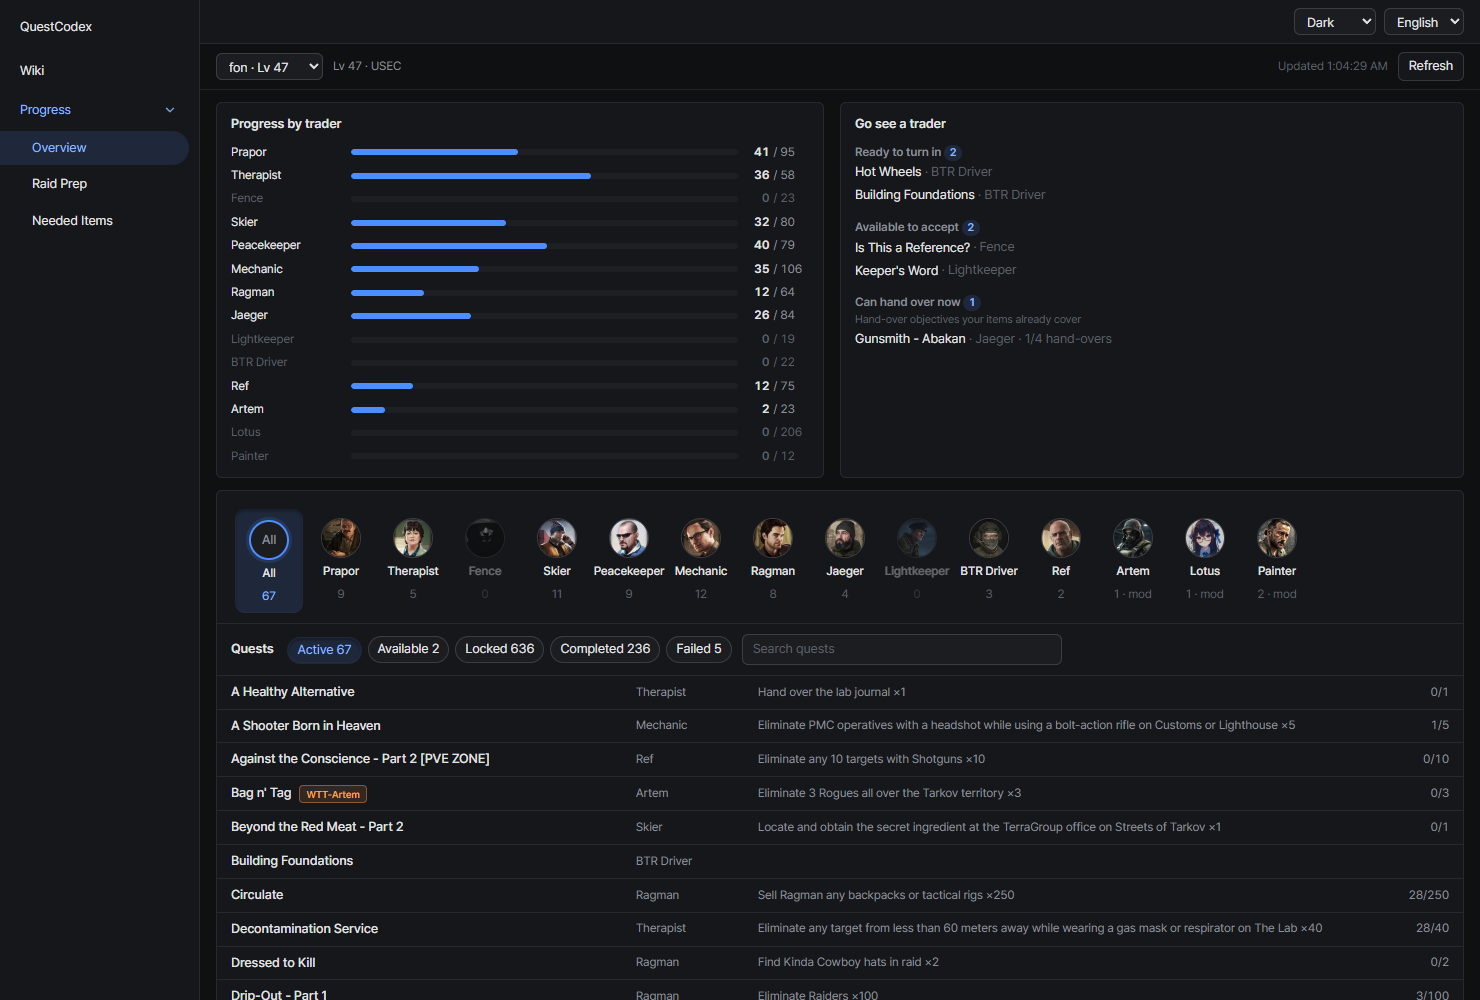
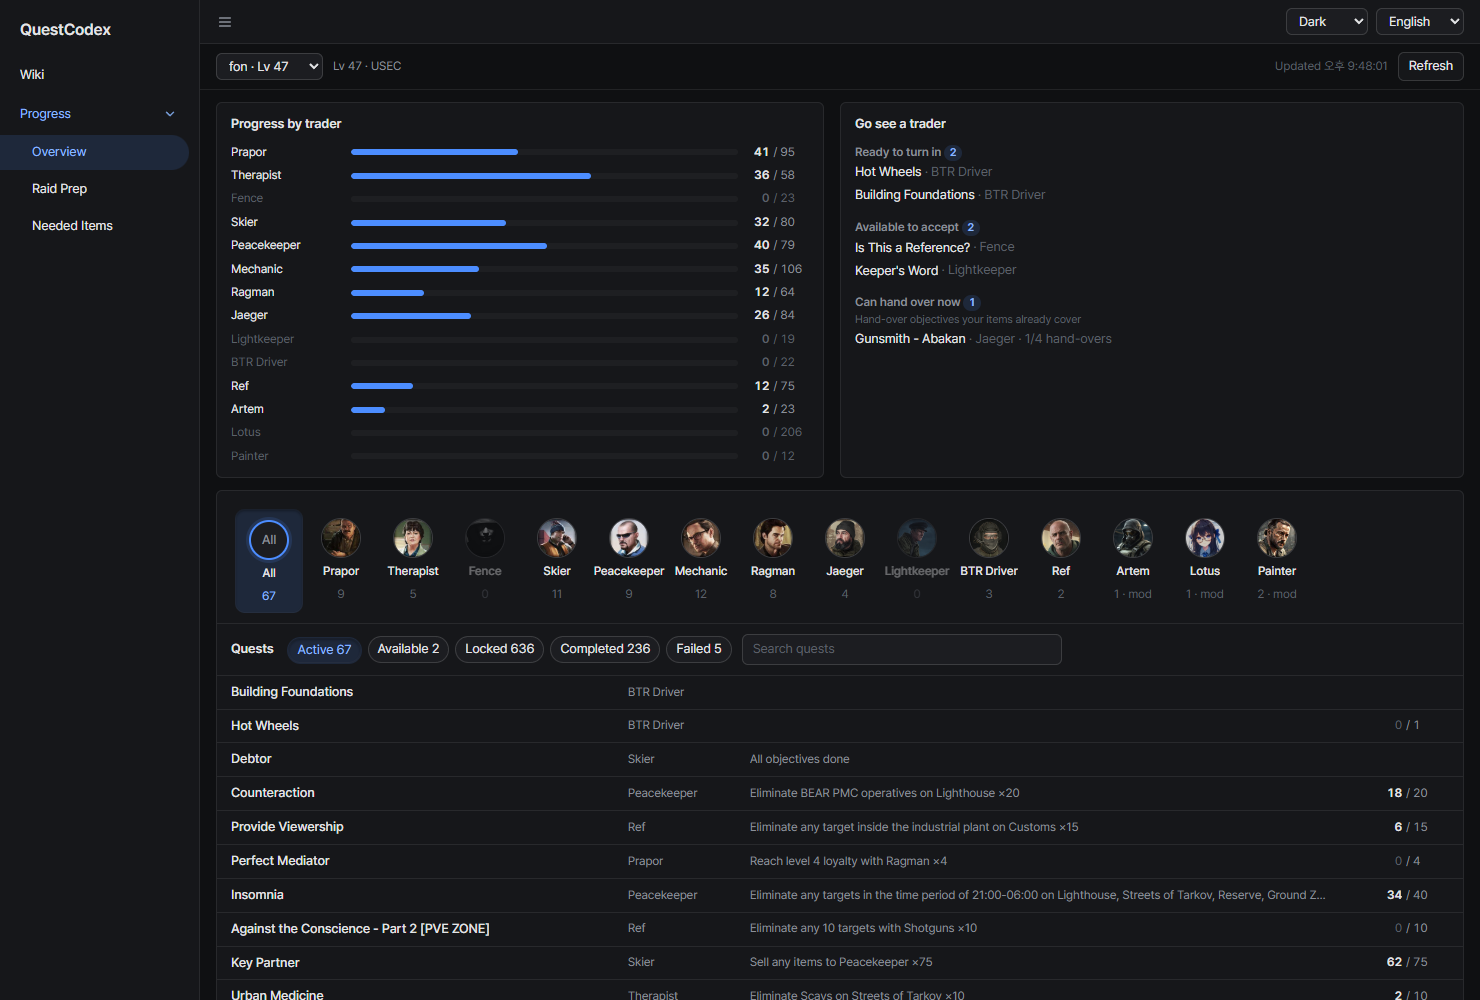
Document the 1.3.0 map and progress changes on the docs site
- Add the quest locations map to the wiki details page, including how lock icons hint at keys
- Add the raid prep map card and expanded map window sections
- Describe full quest details, unmet start conditions and per-tab sorting in the overview
- List Russian in the language switch and add the collapsible side menu
- Note quest map coverage limits under known limitations
- Mirror every change in the Korean pages
- Add new map screenshots and retake the outdated progress screenshots

diff --git a/docs/_kr/progress/raid-prep.md b/docs/_kr/progress/raid-prep.md
@@ -29,6 +29,24 @@ nav_order: 2
 
 [![선택한 맵의 퀘스트]({{ '/assets/images/progress-raid-quests.png' | relative_url }})]({{ '/assets/images/progress-raid-quests.png' | relative_url }})
 
+지도에 표시되는 퀘스트가 먼저, 그다음 진행도가 있는 퀘스트를 진행률 순으로, 나머지는 이름순으로 정렬됩니다.
+
+## 지도
+
+퀘스트 목록 아래에 지도 카드가 있습니다. 고른 맵 탭을 따라 바뀌고, 스크롤해도 화면에 계속 보입니다.
+위키의 [퀘스트 위치 지도]({{ '/kr/wiki/quest-details.html' | relative_url }})와 같은 지도에
+이 맵의 퀘스트를 한꺼번에 표시합니다.
+
+- 퀘스트 행에 마커와 같은 색의 번호가 붙습니다. 한쪽에 마우스를 올리면 다른 쪽도 강조됩니다
+- 층 버튼, 목표 영역, **잠긴 문**(Locked doors) 토글은 위키와 같습니다. 마커 근처의 자물쇠 아이콘으로 챙겨 갈 열쇠를 짐작할 수 있습니다
+
+[![지도 카드]({{ '/assets/images/progress-raid-map-card.png' | relative_url }})]({{ '/assets/images/progress-raid-map-card.png' | relative_url }})
+
+**크게 보기**(Expand)를 누르면 지도가 옮기고 크기를 바꿀 수 있는 창으로 열리고, 번호가 붙은 퀘스트 목록도 함께
+보입니다. 창 뒤의 페이지도 그대로 스크롤하고 누를 수 있습니다. 닫기 버튼이나 `Esc`로 닫습니다.
+
+[![크게 보기 창]({{ '/assets/images/progress-raid-map-window.png' | relative_url }})]({{ '/assets/images/progress-raid-map-window.png' | relative_url }})
+
 ## 챙겨 갈 아이템 / 파밍할 아이템
 
 - **챙겨 갈 아이템**(Bring with you): 이 맵에 설치할 아이템과 필요 수량·보유 수량

diff --git a/docs/_kr/wiki/quest-details.md b/docs/_kr/wiki/quest-details.md
@@ -29,6 +29,21 @@ nav_order: 2
 
 [![설명 팝업]({{ '/assets/images/wiki-description.png' | relative_url }})]({{ '/assets/images/wiki-description.png' | relative_url }})
 
+## 퀘스트 위치 지도
+
+가이드 버튼 옆의 **위치정보**(Locations) 버튼을 누르면 퀘스트 목표가 어디에 있는지 지도로 보여 줍니다.
+위치 정보가 있는 목표가 하나도 없으면 버튼이 흐리게 비활성화됩니다.
+
+- 목표마다 번호 마커가 찍히고, 구역 처치·신호탄 같은 목표는 영역으로 그려집니다. 목표마다 색이 다릅니다
+- 맵 탭으로 맵을, 층 버튼으로 층을 바꿉니다. 층 버튼의 빨간 점은 그 층에도 목표가 있다는 뜻입니다
+- 휠로 확대, 드래그로 이동, 더블클릭으로 전체 보기
+- **잠긴 문**(Locked doors)을 켜면 잠긴 문과 키카드 문에 자물쇠 아이콘이 표시되고, 마우스를 올리면 필요한 열쇠 이름이 나옵니다
+
+어떤 퀘스트에 열쇠가 필요한지는 QuestCodex가 직접 알려 주지 않습니다. 대신 지도에서 마커 주변에 자물쇠
+아이콘이 있다면, 마우스를 올려 어떤 열쇠로 여는 문인지 확인하고 그 열쇠를 챙겨 갈지 어느 정도 짐작할 수 있습니다.
+
+[![퀘스트 위치 지도]({{ '/assets/images/wiki-quest-map.png' | relative_url }})]({{ '/assets/images/wiki-quest-map.png' | relative_url }})
+
 ## 택일 분기 경고
 
 어떤 퀘스트는 서로 배타적인 분기에 있어서, 하나를 완료하면 다른 퀘스트가 실패하거나 막힙니다.

diff --git a/docs/_kr/progress/overview.md b/docs/_kr/progress/overview.md
@@ -30,8 +30,19 @@ nav_order: 1
 
 ## 상태별 퀘스트
 
-모든 퀘스트를 상태별로 묶어 보여 주며, 검색과 위키와 같은 상인 줄로 거를 수 있습니다. 퀘스트를 누르면 목표가
-펼쳐지고 어떤 목표를 끝냈는지 보입니다. 모드 퀘스트에는 모드 이름 태그가 붙습니다.
+모든 퀘스트를 상태별로 묶어 보여 주며, 검색과 위키와 같은 상인 줄로 거를 수 있습니다. 모드 퀘스트에는 모드 이름 태그가 붙습니다.
+
+퀘스트를 누르면 위키와 같은 상세(설명, 가이드, 위치 지도, 분기 경고, 보상, 연계 퀘스트)가 펼쳐지고, 내 진행 상황이 함께 보입니다.
+
+- 목표마다 진행 수치가 붙고, 끝낸 목표는 취소선으로 표시됩니다
+- 잠긴 퀘스트는 아직 못 채운 시작 조건을 현재 값과 함께 표시합니다
+- **위키에서 보기**(Open in wiki)로 위키의 해당 퀘스트로 이동하고, 연계 퀘스트 링크는 이 목록 안에서 이동합니다
+
+탭마다 먼저 볼 만한 퀘스트가 위로 오게 정렬됩니다.
+
+- **진행 중**: 완료 보고할 수 있는 퀘스트가 먼저, 그다음 목표 진행률 순
+- **잠김**: 해금에 가까운 퀘스트가 먼저
+- **완료 / 실패**: 최근에 끝난 퀘스트가 먼저
 
 이 프로필로는 끝낼 수 없는 퀘스트(다른 진영 전용이거나 이미 닫힌 분기)는 **도달 불가**(Unreachable)로 표시됩니다.
 

diff --git a/docs/progress/raid-prep.md b/docs/progress/raid-prep.md
@@ -29,6 +29,25 @@ Expanding a quest dims the objectives that belong to other maps.
 
 [![Quests on the selected map](../assets/images/progress-raid-quests.png)](../assets/images/progress-raid-quests.png)
 
+Quests drawn on the map come first, then quests with counters by progress, then the rest by name.
+
+## Map
+
+Under the quest lists sits a map card that follows the selected map tab and stays in view while you scroll.
+It's the same map as the wiki's [quest locations map](../wiki/quest-details.html#quest-locations-map),
+with all the quests on this map at once.
+
+- Quest rows carry the same colored number as their markers. Hover either side to highlight the other
+- Floor buttons, objective areas and the **Locked doors** toggle work like in the wiki. Lock icons near a
+  marker tell you which key you may want to bring
+
+[![Map card](../assets/images/progress-raid-map-card.png)](../assets/images/progress-raid-map-card.png)
+
+**Expand** opens the map in a movable, resizable window with a numbered quest list. The page behind it
+stays scrollable and clickable. Close it with the close button or `Esc`.
+
+[![Expanded map window](../assets/images/progress-raid-map-window.png)](../assets/images/progress-raid-map-window.png)
+
 ## Bring with you / Items to loot
 
 - **Bring with you**: items to plant on this map, with how many you need and how many you have

diff --git a/docs/wiki/quest-details.md b/docs/wiki/quest-details.md
@@ -29,6 +29,22 @@ The full quest description opens in a popup, so long text doesn't stretch the li
 
 [![Description popup](../assets/images/wiki-description.png)](../assets/images/wiki-description.png)
 
+## Quest locations map
+
+The **Locations** button next to the guide button opens a map of where the quest's objectives are. It's greyed
+out when no objective has location data.
+
+- Each objective gets a numbered marker; kill-zone and flare objectives are drawn as areas, one color per objective
+- Map tabs switch maps, and floor buttons switch floors. A red dot on a floor button means that floor has objectives too
+- Wheel to zoom, drag to pan, double-click to fit
+- **Locked doors** shows lock icons for locked doors and keycard doors. Hover one to see the key it needs
+
+QuestCodex doesn't know which quests need a key, but the map gets you most of the way: if a marker sits
+next to a lock icon, hover it to see which key opens that door, and you can judge for yourself whether to
+bring it.
+
+[![Quest locations map](../assets/images/wiki-quest-map.png)](../assets/images/wiki-quest-map.png)
+
 ## Branch warnings
 
 Some quests sit on mutually exclusive branches: finishing one fails or locks the other.

diff --git a/docs/progress/overview.md b/docs/progress/overview.md
@@ -32,8 +32,20 @@ Under **Go see a trader**:
 
 ## Quests by status
 
-All quests grouped by status, with search and the same trader row as the wiki. Click a quest to expand
-its objectives and see which ones are done. Mod quests carry their mod name tag.
+All quests grouped by status, with search and the same trader row as the wiki. Mod quests carry their mod name tag.
+
+Click a quest to expand the same details as the wiki (description, guide, locations map, branch warning,
+rewards, related quests), plus your progress:
+
+- Objectives show their counters, and finished ones are struck through
+- Locked quests mark the start conditions you haven't met yet, with your current value
+- **Open in wiki** jumps to the quest in the wiki; related quest links jump within this list
+
+Each tab sorts for what you'd look for first:
+
+- **Active**: ready to turn in first, then by objective completion
+- **Locked**: closest to unlocking first
+- **Completed / Failed**: most recent first
 
 Quests you can never finish on this profile (other faction only, or a branch you already closed) are
 marked **Unreachable**.

diff --git a/docs/_kr/limitations.md b/docs/_kr/limitations.md
@@ -21,6 +21,12 @@ QuestCodex는 서버가 부팅을 마친 뒤 **메모리에 합쳐 둔 퀘스트
 JSON 파일이 아니라 C# 코드(`CustomQuestService.CreateQuest()`)로 추가된 퀘스트는 파일 흔적이 없어서
 출처 모드를 알 수 없습니다. 이런 퀘스트에는 `모드` 태그가 붙습니다.
 
+## 퀘스트 지도 표시 범위
+
+- 위치 정보가 없는 일부 퀘스트는 목표가 지도에 표시되지 않습니다.
+- 모드 퀘스트는 모드가 서버에서 읽을 수 있는 데이터로 구역을 정의한 경우에만 지도에 표시됩니다.
+- 어떤 열쇠를 가지고 있는지는 확인하지 않습니다. 자물쇠 아이콘은 그 문에 필요한 열쇠만 알려 줍니다.
+
 ## 로컬 전용
 
 SPT 서버는 `127.0.0.1`에만 열리므로 QuestCodex는 서버를 실행한 PC의 브라우저에서만 열립니다.

diff --git a/docs/_kr/getting-started.md b/docs/_kr/getting-started.md
@@ -39,8 +39,12 @@ SPT 서버 웹 페이지(`https://127.0.0.1:6969`)의 모드 카드에서도 들
 
 ## 언어와 테마
 
-- **언어**: `English` / `한국어`. UI 문구와 퀘스트·아이템 이름이 함께 바뀝니다
+- **언어**: `English` / `한국어` / `Русский`. UI 문구와 퀘스트·아이템 이름이 함께 바뀝니다
   (게임 텍스트는 서버의 로케일 테이블을 씁니다).
 - **테마**: 시스템 / 밝게 / 어둡게. 브라우저에 기억됩니다.
 
 [![테마와 언어 선택]({{ '/assets/images/topbar-switches.png' | relative_url }})]({{ '/assets/images/topbar-switches.png' | relative_url }})
+
+## 사이드 메뉴
+
+상단 바 왼쪽의 메뉴 버튼으로 사이드 메뉴를 접거나 펼칠 수 있고, 선택한 상태가 기억됩니다.

diff --git a/docs/limitations.md b/docs/limitations.md
@@ -22,6 +22,12 @@ If the page and the game disagree, suspect this first.
 Quests a mod injects from C# code (`CustomQuestService.CreateQuest()`) rather than from JSON files leave
 no file trace, so their source mod can't be identified. Those get a generic `mod` label.
 
+## Quest map coverage
+
+- A few quests have no location data, so their objectives don't appear on the map.
+- Mod quests show on the map only when the mod defines its zones in data the server can read.
+- QuestCodex doesn't track which keys you own. Lock icons tell you which key a door needs, nothing more.
+
 ## Local only
 
 The SPT server binds to `127.0.0.1`, so QuestCodex opens only in a browser on the machine running the server.

diff --git a/docs/getting-started.md b/docs/getting-started.md
@@ -39,8 +39,12 @@ You can also reach it from the mod card on the SPT server web page (`https://127
 
 ## Language and theme
 
-- **Language**: `en` / `kr`. UI strings and quest/item names change together
+- **Language**: `English` / `한국어` / `Русский`. UI strings and quest/item names change together
   (game text comes from the server's locale tables).
 - **Theme**: `System` / `Light` / `Dark`, remembered in the browser.
 
 [![Theme and language switches](assets/images/topbar-switches.png)](assets/images/topbar-switches.png)
+
+## Side menu
+
+The menu button at the left of the top bar hides or shows the side menu, and the choice is remembered.
